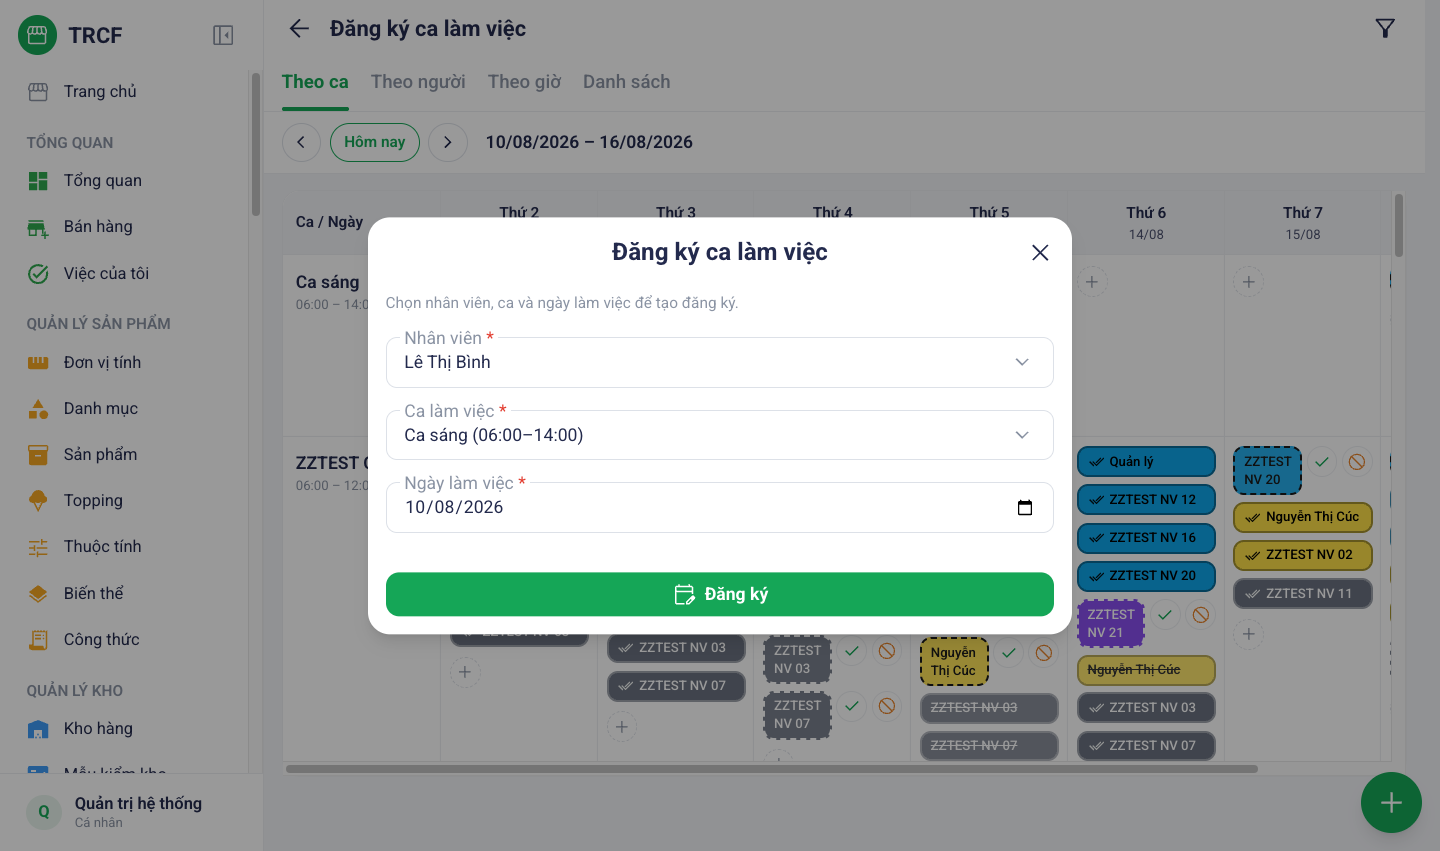
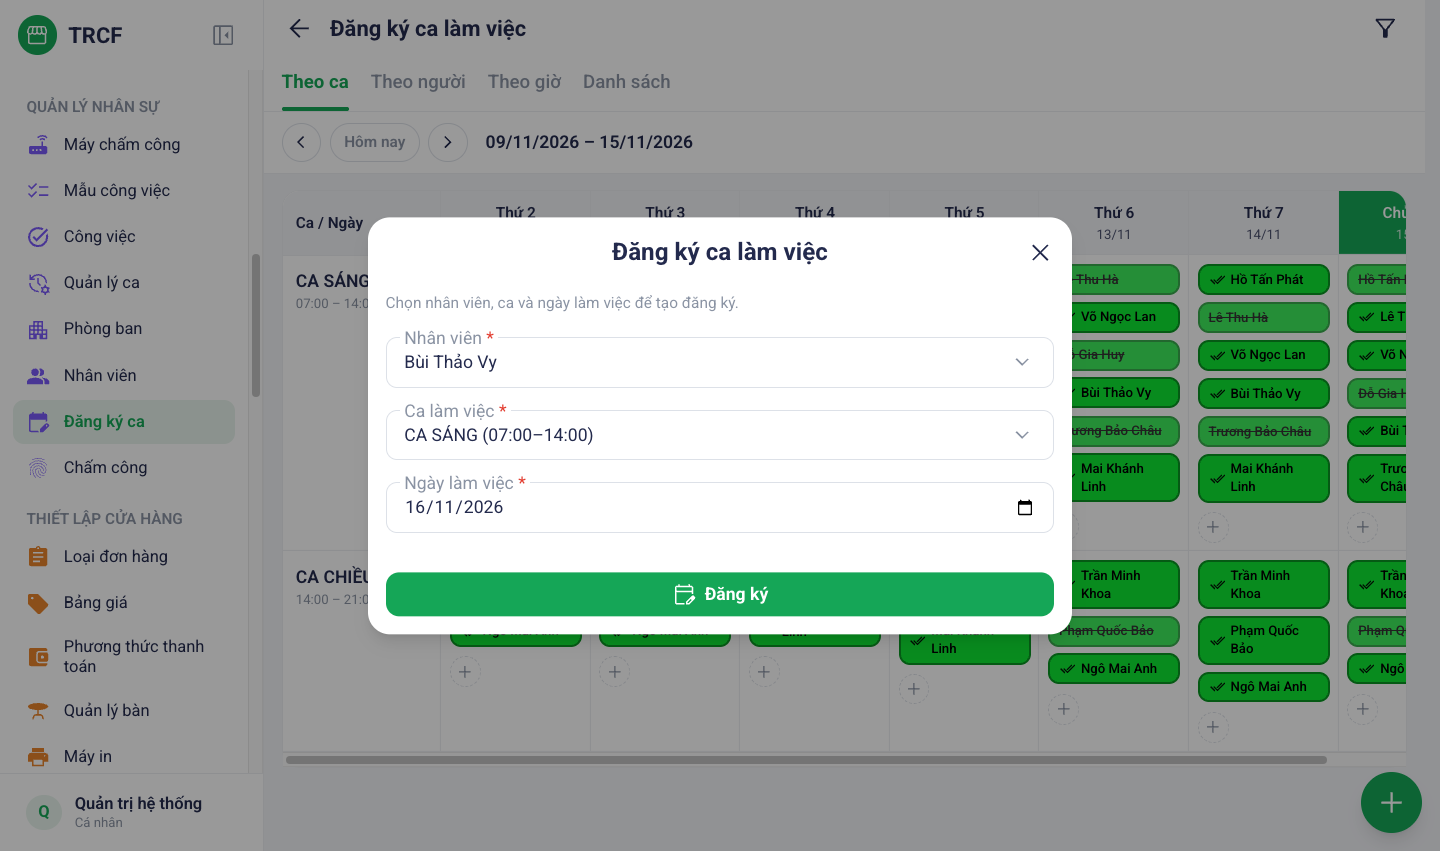
docs(9.2): đăng ký và duyệt ca trên lịch thật tuần 16–22/11, tên nhân viên đã thay bằng tên giả

diff --git a/noi-dung/9-2-dang-ky-va-duyet-ca.md b/noi-dung/9-2-dang-ky-va-duyet-ca.md
@@ -14,7 +14,7 @@ Menu trái: ==Quản lý nhân sự → Đăng ký ca== (địa chỉ `/shift-re
 
 ## 2. Ví dụ nền và các bước thực hiện
 
-> **Ví dụ:** đăng ký **Lê Thị Bình** làm **Ca sáng** ngày 10/08/2026, quản lý duyệt.
+> **Ví dụ:** bạn pha chế **Bùi Thảo Vy** xin làm **CA SÁNG** thứ Hai 16/11/2026, quản lý duyệt.
 
 ### Bước 1: Khai phiếu đăng ký ca
 
@@ -35,14 +35,14 @@ Menu trái: ==Quản lý nhân sự → Đăng ký ca== (địa chỉ `/shift-re
 
 ### Bước 3: Xem trên Danh sách
 
-- Bấm thẻ **Danh sách**, gõ tên vào ô tìm như ảnh.
+- Bấm thẻ **Danh sách**, gõ tên vào ô tìm như ảnh: thấy cả tuần của một người, phiếu mới ở trạng thái **Chờ duyệt**.
 - Bấm biểu tượng phễu góc trên phải để lọc theo **Từ ngày / Đến ngày**, **Ca làm việc**, **Trạng thái**.
 
 ![Bước 3: Xem trên Danh sách](images/07-dang-ky-ca-buoc-3-danh-sach.png)
 
 ### Bước 4: Quản lý duyệt
 
-- Bấm vào tên **Lê Thị Bình** trên lịch (hoặc vào dòng trong **Danh sách**).
+- Bấm vào tên **Bùi Thảo Vy** trên lịch (hoặc vào dòng trong **Danh sách**).
 - Chọn **Duyệt** (hoặc **Từ chối** nếu không đồng ý). Có thể bấm thẳng nút ✓ cạnh tên trên lịch.
 - Tên chuyển sang **nền đặc**, trạng thái **Đã duyệt**.
 
